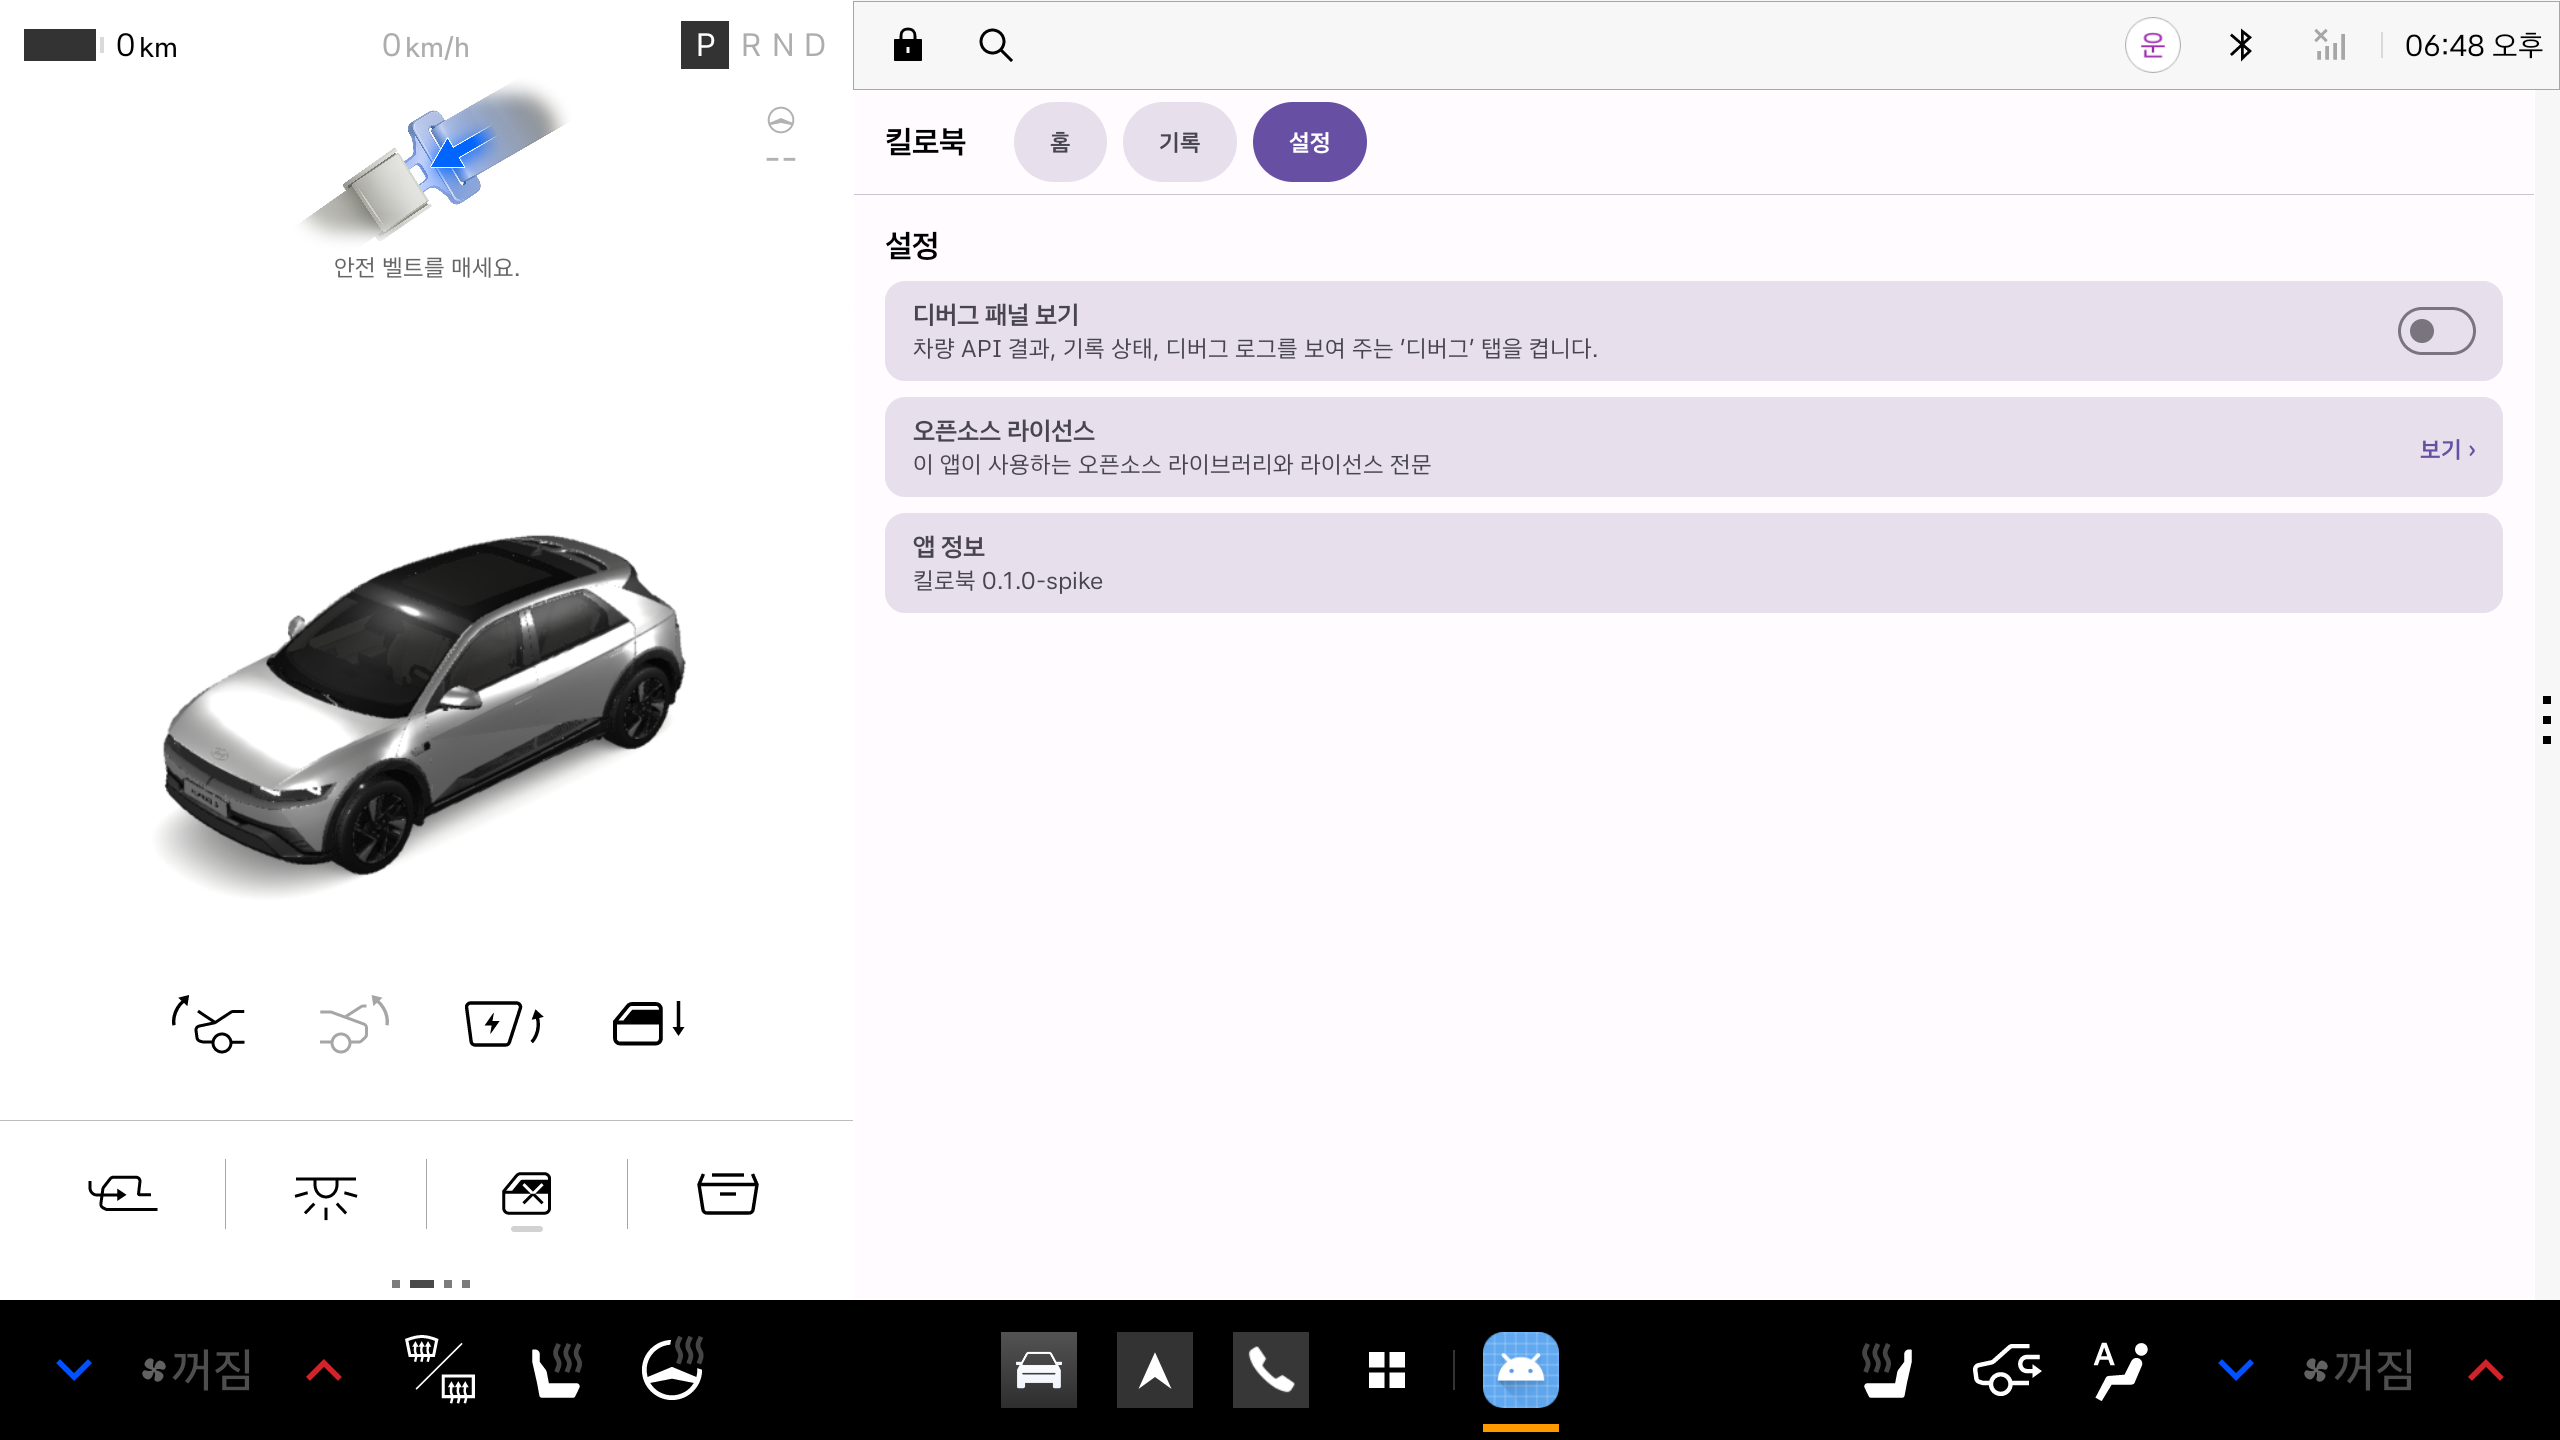
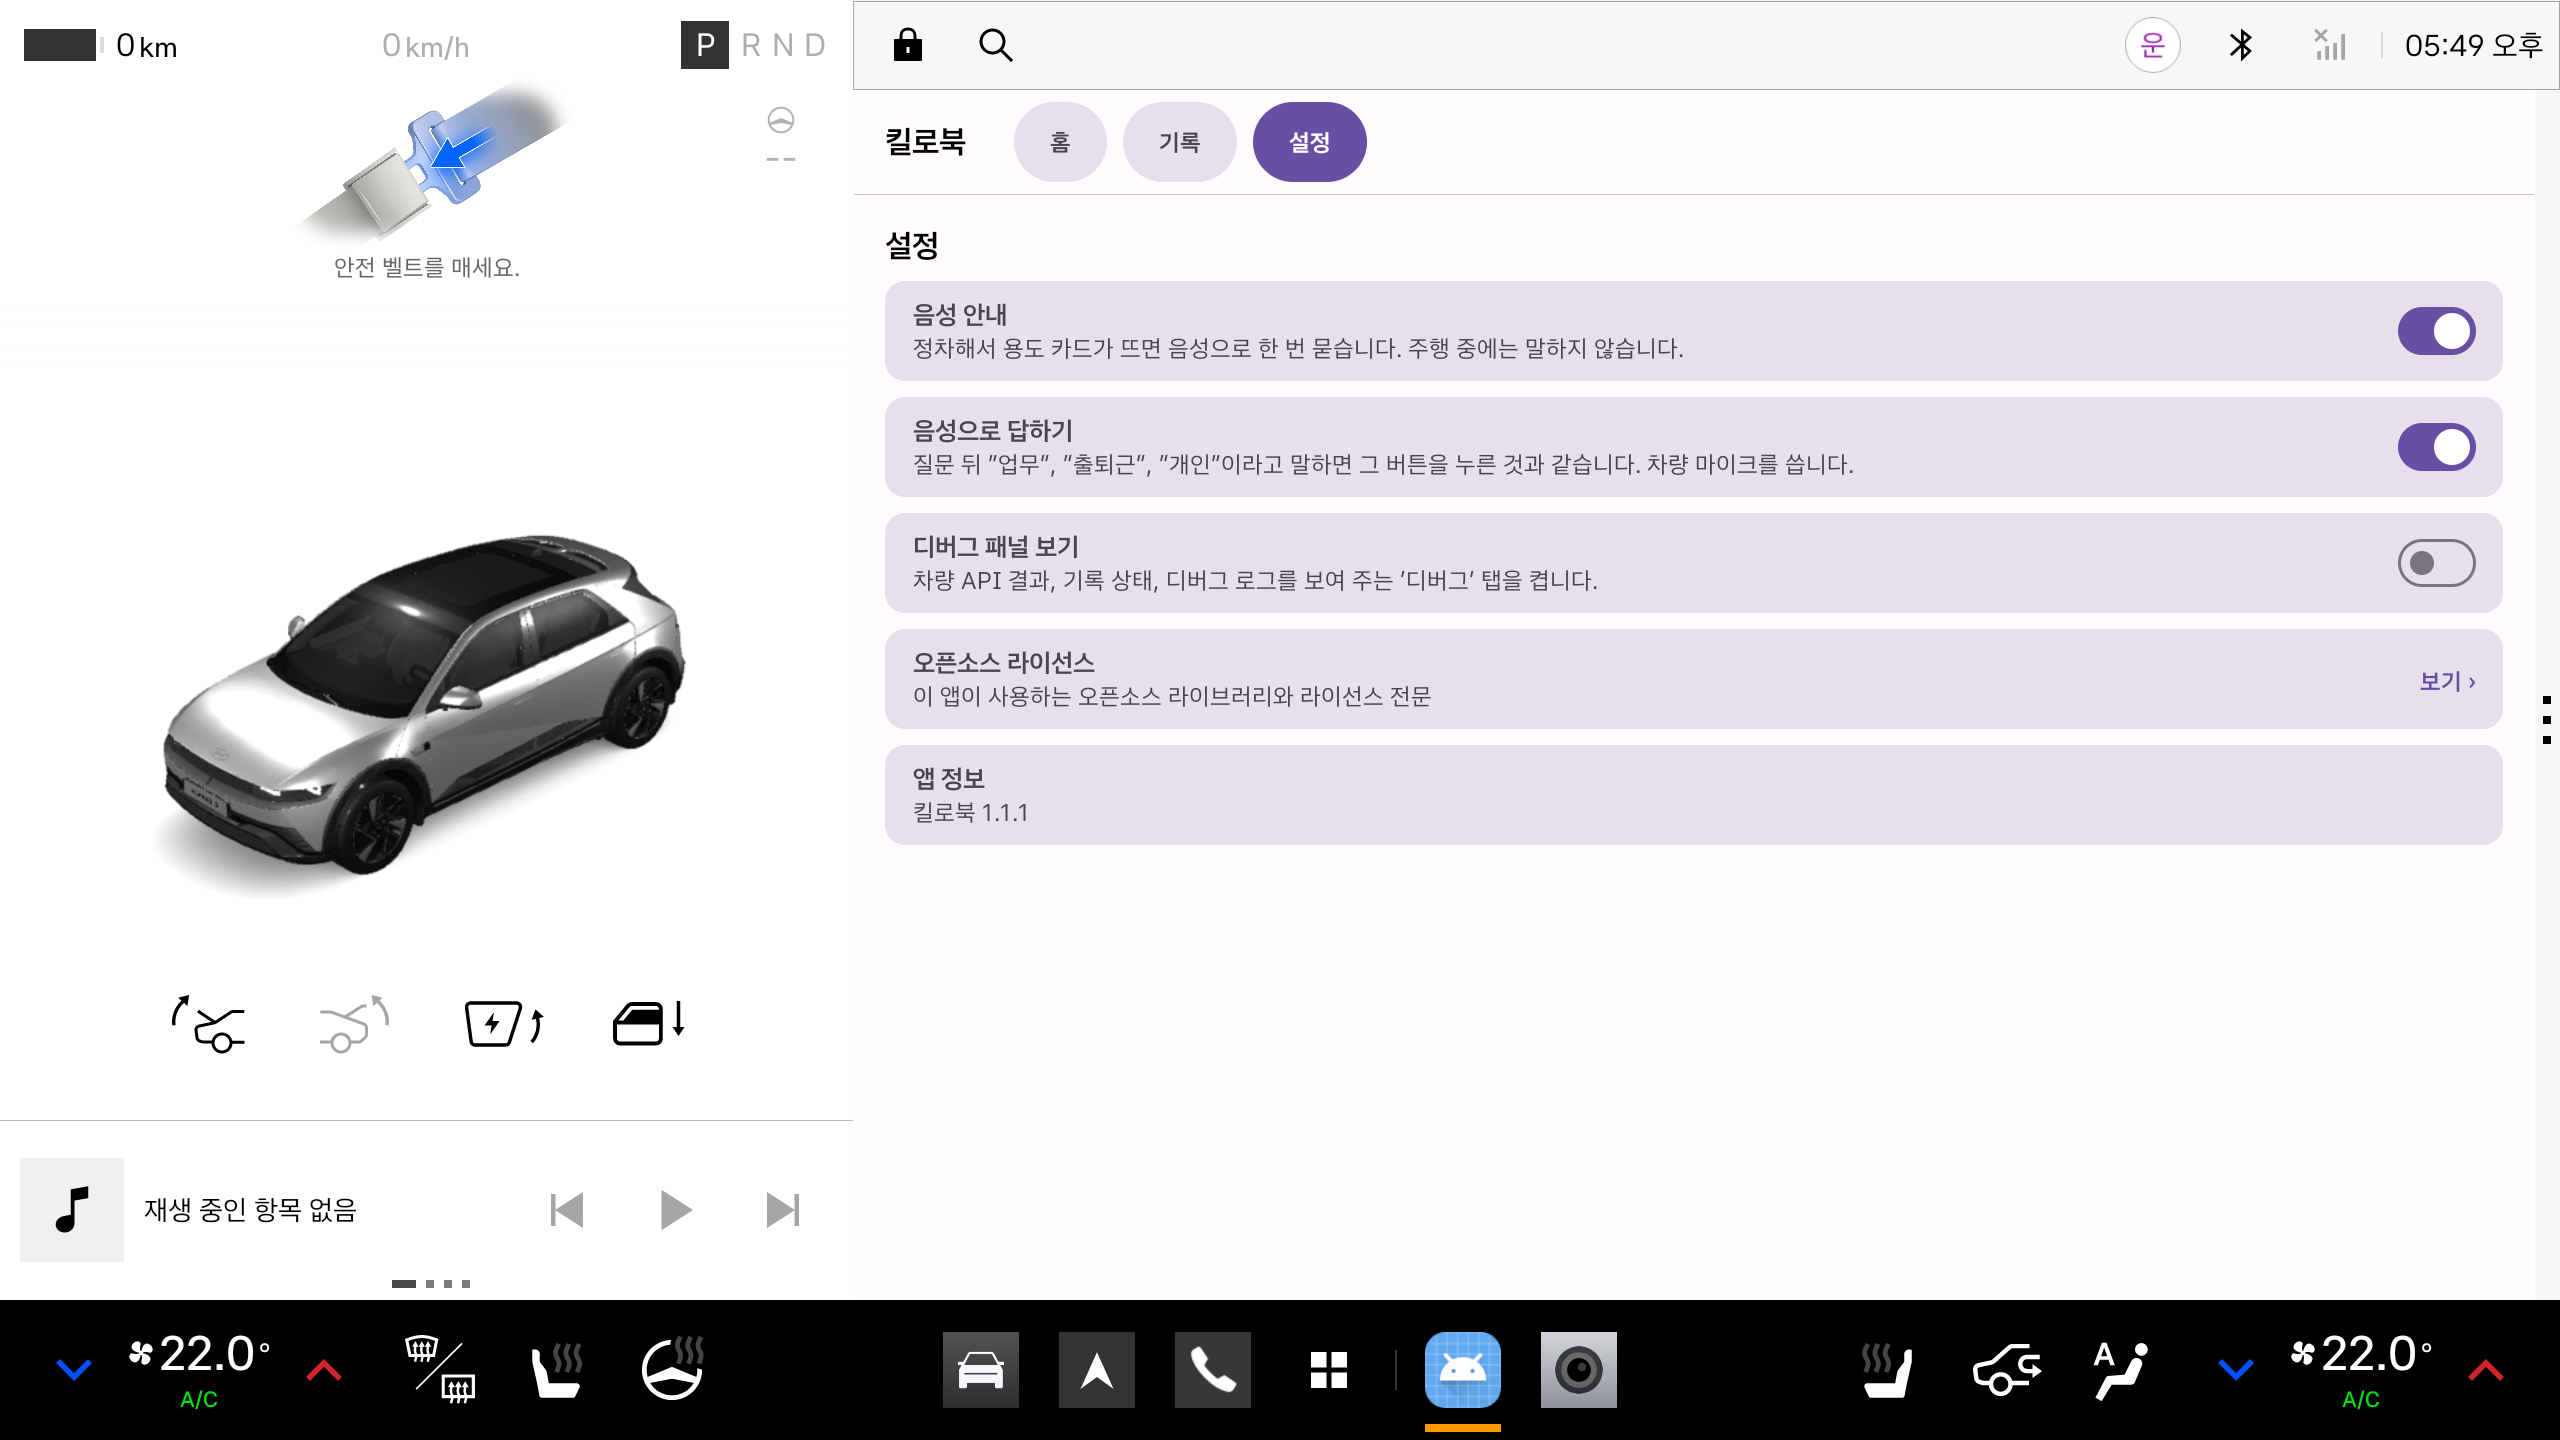
docs: retake Phase 5 screenshots on v1.1.1 (voice question, settings, licenses)
- All 7 captures retaken with the release APK v1.1.1 on 2026-11-14.
- 01 home shows the listening state after the voice question; 04 settings shows the two voice switches and version 1.1.1; 05 licenses shows the Phase 7 list.
- docs/phase5/README.md notes the retake; README caption for the home capture.

diff --git a/docs/phase5/README.md b/docs/phase5/README.md
@@ -18,13 +18,17 @@
 
 | 화면 | 캡처 |
 |---|---|
-| 홈 (예시 기록 포함) | [01-home.png](01-home.png) |
+| 홈 (예시 기록 포함, 음성 질문 뒤 듣는 중) | [01-home.png](01-home.png) |
 | 주행 중 | [02-driving.png](02-driving.png) |
 | 기록 (예시 기록 포함) | [03-trips.png](03-trips.png) |
 | 설정 | [04-settings.png](04-settings.png) |
 | 오픈소스 라이선스 | [05-licenses.png](05-licenses.png) |
 | 디버그 | [06-debug.png](06-debug.png) |
 | 홈, 세로 창 (내비와 1:1) | [07-home-portrait.png](07-home-portrait.png) |
+
+캡처는 2026-11-14에 release v1.1.1(Phase 7 음성 포함)로 다시 찍었다. 처음 캡처(2026-11-09, `0.1.0-spike`)와 다른 점:
+01 용도 카드 아래 "● 듣고 있어요"와 상태 표시줄의 마이크 표시, 04 설정의 음성 안내·음성으로 답하기 스위치와 버전 1.1.1, 05 Phase 7에서 늘어난 라이브러리 목록.
+위 화면 구조와 아래 시험 결과는 Phase 5(2026-11-09) 기준이다. 음성은 [../phase7/README.md](../phase7/README.md).
 
 ## 5-0 기준 확인 (Pleos 디자인 가이드)
 

diff --git a/README.md b/README.md
@@ -10,7 +10,7 @@
 - 앱이 꺼져 있던 동안 늘어난 거리는 "기록되지 않은 주행"으로 남겨 빠짐없이 묻는다.
 - 이번 달 총 주행거리, 업무용 사용거리, 업무사용비율((업무 + 출퇴근) ÷ 총 주행거리, 국세청 업무용승용차 운행기록부 기준)을 보여 준다.
 
-| 정차: 용도 확인과 이번 달 요약 | 주행 중 |
+| 정차: 용도 확인(음성 질문 뒤 듣는 중)과 이번 달 요약 | 주행 중 |
 |---|---|
 | ![홈](docs/phase5/01-home.png) | ![주행 중](docs/phase5/02-driving.png) |
 
